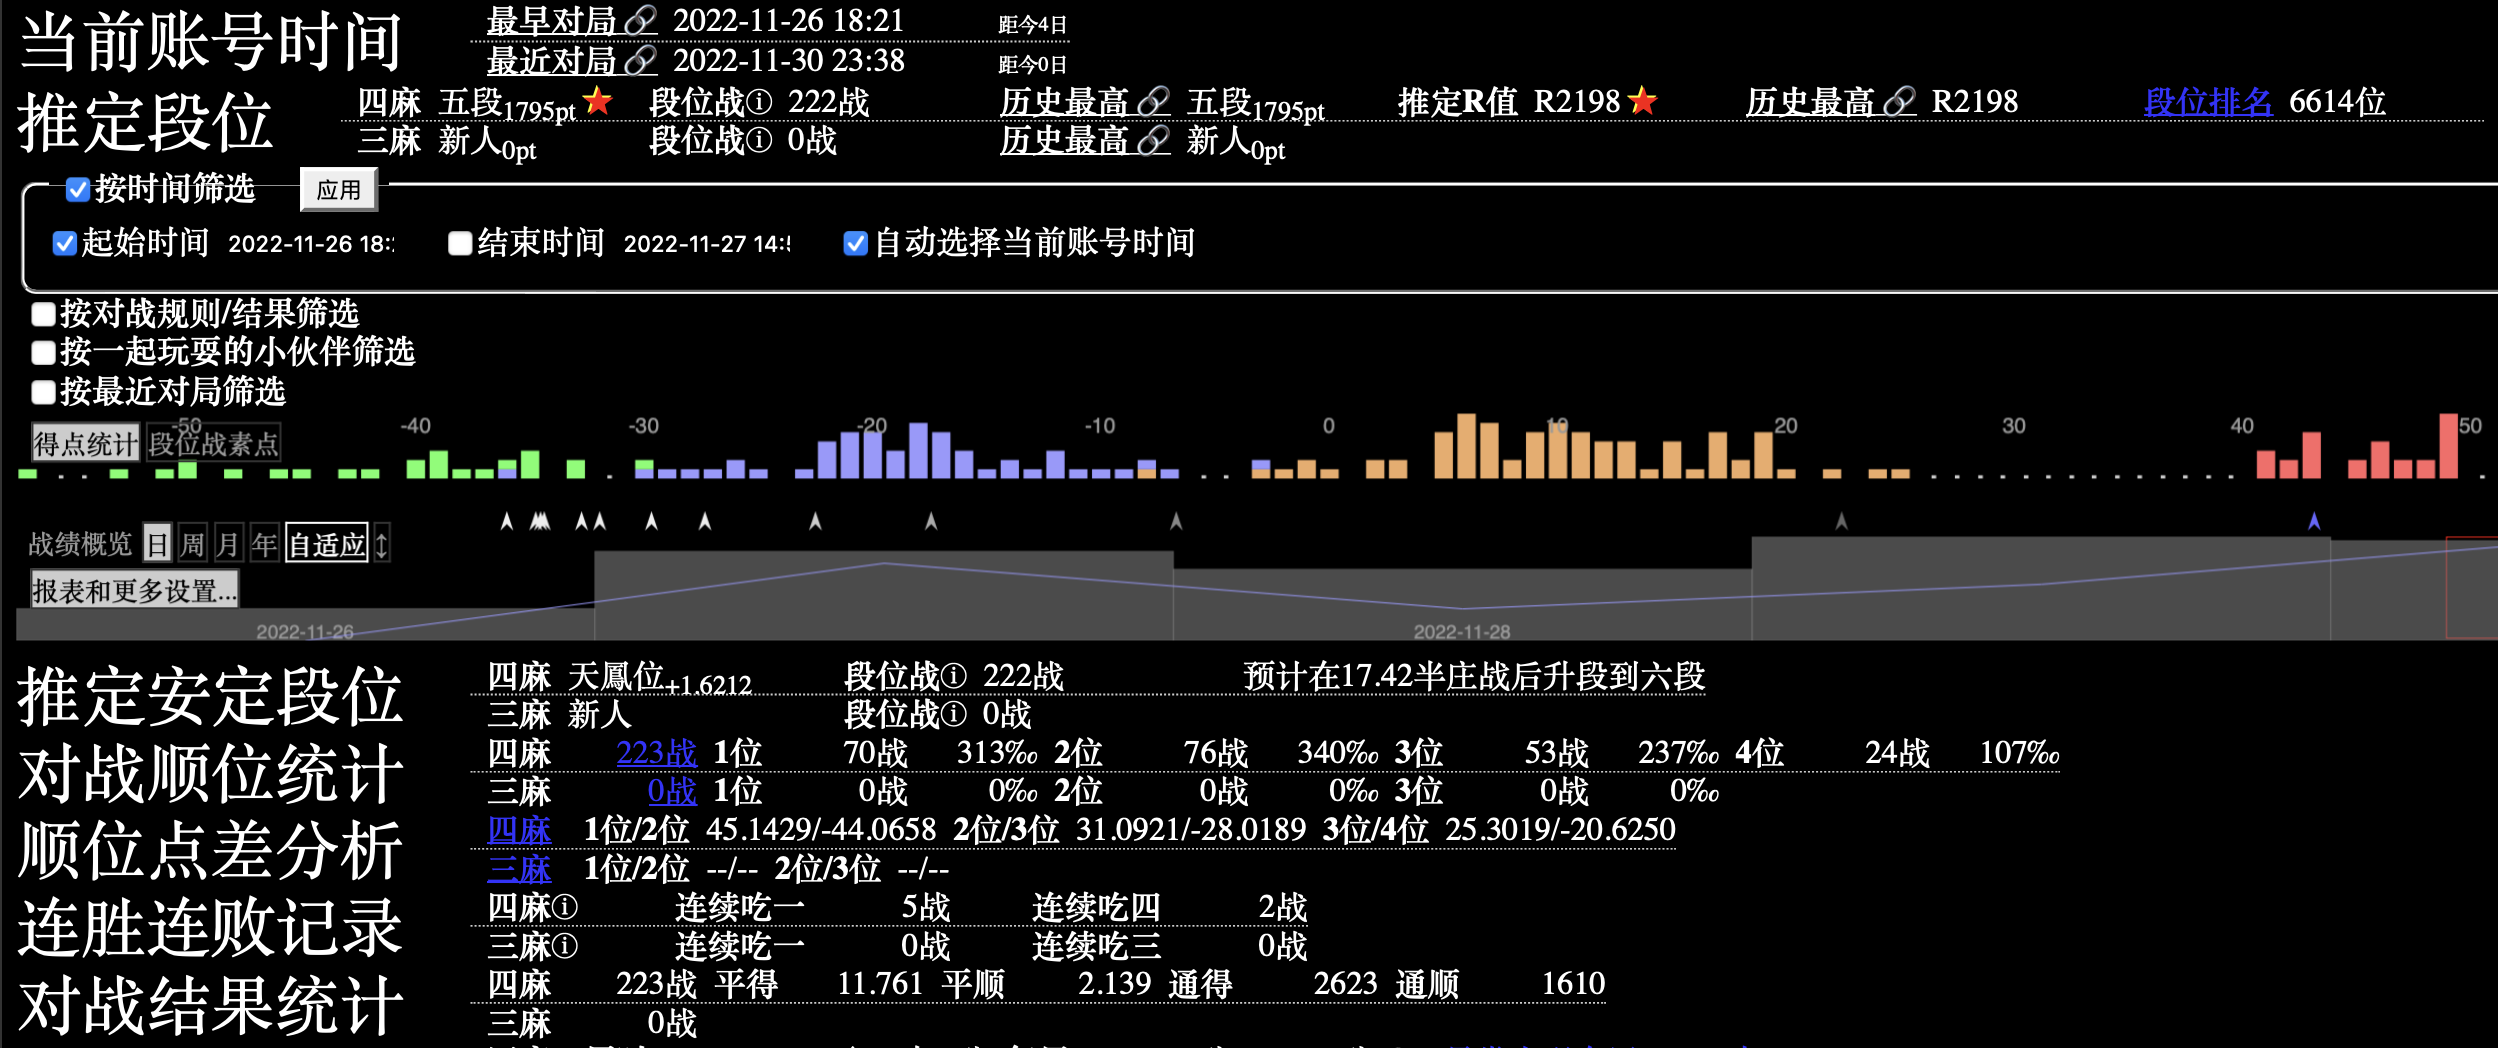
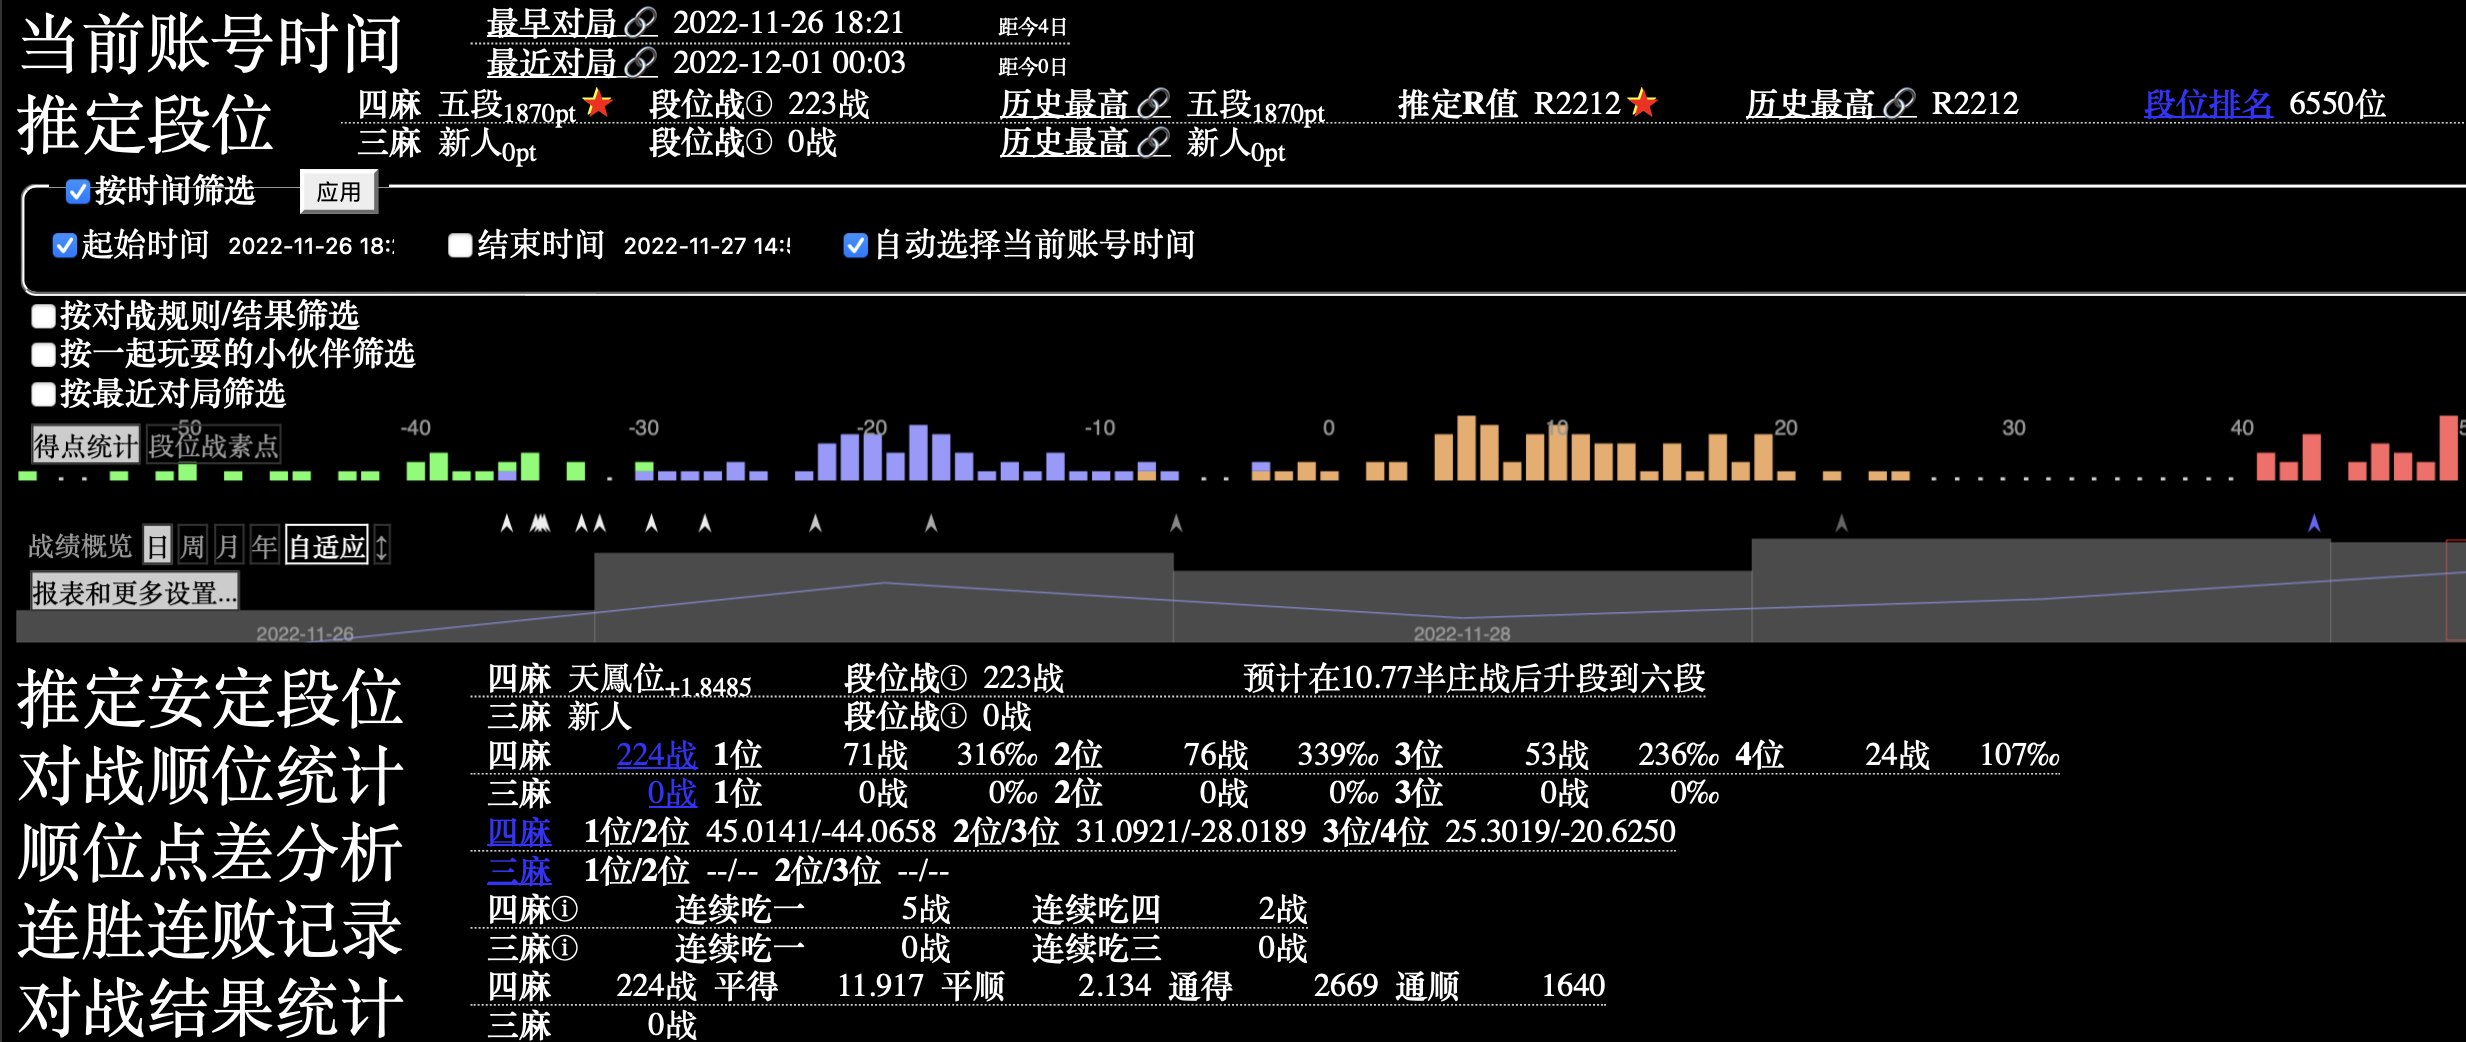
update

diff --git a/README.md b/README.md
@@ -32,7 +32,7 @@
 
 ### Tenhou
 
-(2022年11月30日)
+(2022年12月01日)
 
 ![tenhou-1](./imgs/tenhou-01.png)
 
